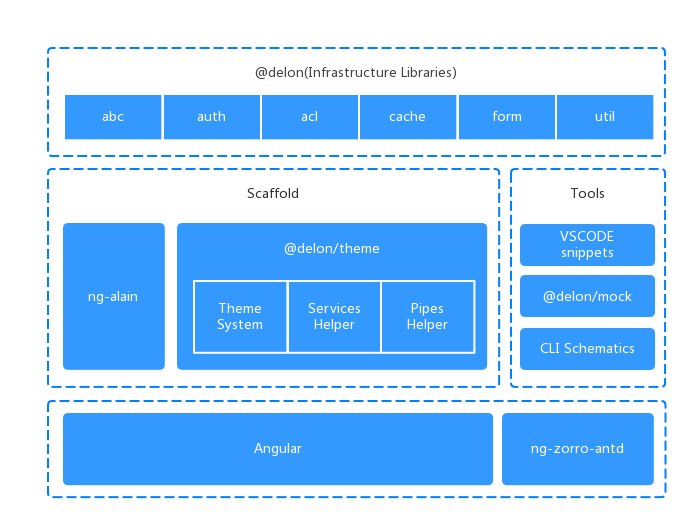
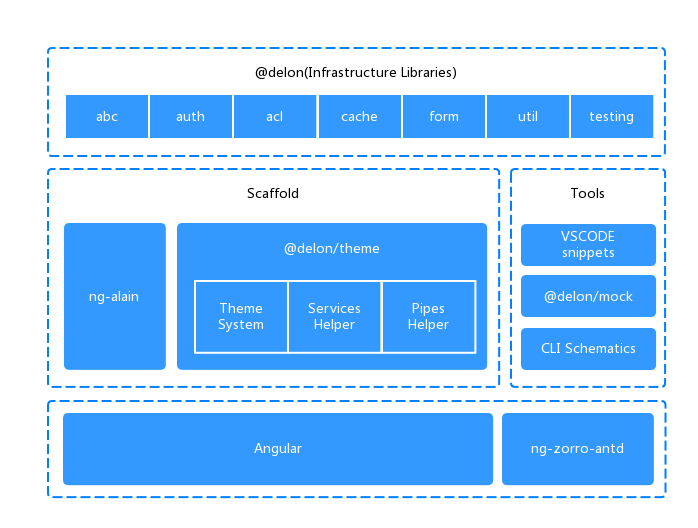
release(7.0.0-rc.1): release 7.0.0-rc.1 (#338)

diff --git a/docs/changelog.zh-CN.md b/docs/changelog.zh-CN.md
@@ -4,6 +4,38 @@ title: 更新日志
 type: Other
 ---
 
+# [7.0.0-rc.1](https://github.com/ng-alain/delon/compare/7.0.0-rc.0...7.0.0-rc.1) (2018-12-24)
+
+### Scaffold
+
+* 新增异常触发示例页
+* 新增波兰语
+* 优化路径配置 ([#825](https://github.com/ng-alain/ng-alain/pull/825))
+
+### Bug Fixes
+
+* **module:auth:** 修复无法识别完整URL匿名键名 ([#328](https://github.com/ng-alain/delon/issues/328)) ([e223ccb](https://github.com/ng-alain/delon/commit/e223ccb))
+* **module:sf:** 修复重置值时应触发一次变更检测 ([#332](https://github.com/ng-alain/delon/issues/332)) ([ffd365b](https://github.com/ng-alain/delon/commit/ffd365b))
+* **module:sf:cascader:** 修复未指定 `labelProperty`、`valueProperty` 问题 ([#325](https://github.com/ng-alain/delon/issues/325)) ([4d4e53f](https://github.com/ng-alain/delon/commit/4d4e53f))
+* **module:st:** 修复调用 `removeRow` 方法应重新计算序号 ([#331](https://github.com/ng-alain/delon/issues/331)) ([6c8c2d1](https://github.com/ng-alain/delon/commit/6c8c2d1)), closes [#330](https://github.com/ng-alain/delon/issues/330)
+* **module:theme:** 修复主菜单在Firefox下总是显示滚动条 ([#336](https://github.com/ng-alain/delon/issues/336)) ([727d0d7](https://github.com/ng-alain/delon/commit/727d0d7))
+* **module:theme:menu:** 标记过期属性 `linkExact` ([#337](https://github.com/ng-alain/delon/issues/337)) ([ebbeed3](https://github.com/ng-alain/delon/commit/ebbeed3))
+
+### Features
+
+* **module:testing:** 增加 `@delon/testing` 测试套件库 ([#329](https://github.com/ng-alain/delon/issues/329)) ([9d533cf](https://github.com/ng-alain/delon/commit/9d533cf))
+* **module:auth:** 增加 `referrer` 属性，用于获取跳转前URL ([#334](https://github.com/ng-alain/delon/issues/334)) ([0510864](https://github.com/ng-alain/delon/commit/0510864))
+* **module:mock:** 增加 `executeOtherInterceptors` 命中后继续执行后续拦截器 ([#321](https://github.com/ng-alain/delon/issues/321)) ([d77e8e9](https://github.com/ng-alain/delon/commit/d77e8e9))
+* **module:sidebar-nav:** 增加 `disabledAcl` 属性，当 ACL 未授权时以禁用状态显示 ([#337](https://github.com/ng-alain/delon/issues/337)) ([ebbeed3](https://github.com/ng-alain/delon/commit/ebbeed3))
+* **module:st:** 增加 `expandRowByClick` 属性，点击行展开与收缩 ([#326](https://github.com/ng-alain/delon/issues/326)) ([a8a6695](https://github.com/ng-alain/delon/commit/a8a6695))
+* **module:st:** 增加 `url` 模式下支持数组响应体 ([#327](https://github.com/ng-alain/delon/issues/327)) ([4e681dc](https://github.com/ng-alain/delon/commit/4e681dc))
+* **module:util:** 增加 `stringTemplateOutlet` 指令 ([#324](https://github.com/ng-alain/delon/issues/324)) ([e8d9ed1](https://github.com/ng-alain/delon/commit/e8d9ed1))
+* **module:theme:** 新增波兰语 ([#308](https://github.com/ng-alain/delon/issues/308)) ([025282c](https://github.com/ng-alain/delon/commit/025282c))
+
+### BREAKING CHANGES
+
+* **module:chart:timeline:** 移除 `tickCount`，同步 antd 3.4 ([#323](https://github.com/ng-alain/delon/issues/323)) ([20920fc](https://github.com/ng-alain/delon/commit/20920fc))
+
 # [7.0.0-rc.0](https://github.com/ng-alain/delon/compare/2.0.1...7.0.0-rc.0) (2018-12-14)
 
 `ng-alain` will track the major version of `@angular/core` from `7.0.0-rc.0` like other angular libraries.

diff --git a/docs/changelog.en-US.md b/docs/changelog.en-US.md
@@ -4,6 +4,38 @@ title: Change Log
 type: Other
 ---
 
+# [7.0.0-rc.1](https://github.com/ng-alain/delon/compare/7.0.0-rc.0...7.0.0-rc.1) (2018-12-24)
+
+### Scaffold
+
+* add exception trigger
+* adding Polish locale
+* optimized path configuration ([#825](https://github.com/ng-alain/ng-alain/pull/825))
+
+### Bug Fixes
+
+* **module:auth:** fix unrecognized full URL anonymous key ([#328](https://github.com/ng-alain/delon/issues/328)) ([e223ccb](https://github.com/ng-alain/delon/commit/e223ccb))
+* **module:sf:** shoule trigger detect change when reset value ([#332](https://github.com/ng-alain/delon/issues/332)) ([ffd365b](https://github.com/ng-alain/delon/commit/ffd365b))
+* **module:sf:cascader:** fix invalid search when labelProperty or valueProperty is empty ([#325](https://github.com/ng-alain/delon/issues/325)) ([4d4e53f](https://github.com/ng-alain/delon/commit/4d4e53f))
+* **module:st:** should recalculate no value when call removeRow method ([#331](https://github.com/ng-alain/delon/issues/331)) ([6c8c2d1](https://github.com/ng-alain/delon/commit/6c8c2d1)), closes [#330](https://github.com/ng-alain/delon/issues/330)
+* **module:theme:** fix keeping show scroll bar in firefox ([#336](https://github.com/ng-alain/delon/issues/336)) ([727d0d7](https://github.com/ng-alain/delon/commit/727d0d7))
+* **module:theme:menu:** tag deprecated `linkExact` ([#337](https://github.com/ng-alain/delon/issues/337)) ([ebbeed3](https://github.com/ng-alain/delon/commit/ebbeed3))
+
+### Features
+
+* **module:testing:** add @delon/testing lib ([#329](https://github.com/ng-alain/delon/issues/329)) ([9d533cf](https://github.com/ng-alain/delon/commit/9d533cf))
+* **module:auth:** add `referrer` property ([#334](https://github.com/ng-alain/delon/issues/334)) ([0510864](https://github.com/ng-alain/delon/commit/0510864))
+* **module:mock:** add `executeOtherInterceptors` config ([#321](https://github.com/ng-alain/delon/issues/321)) ([d77e8e9](https://github.com/ng-alain/delon/commit/d77e8e9))
+* **module:sidebar-nav:** add `disabledAcl` property ([#337](https://github.com/ng-alain/delon/issues/337)) ([ebbeed3](https://github.com/ng-alain/delon/commit/ebbeed3))
+* **module:st:** add `expandRowByClick` property ([#326](https://github.com/ng-alain/delon/issues/326)) ([a8a6695](https://github.com/ng-alain/delon/commit/a8a6695))
+* **module:st:** support response body is an array type ([#327](https://github.com/ng-alain/delon/issues/327)) ([4e681dc](https://github.com/ng-alain/delon/commit/4e681dc))
+* **module:util:** export `stringTemplateOutlet` ([#324](https://github.com/ng-alain/delon/issues/324)) ([e8d9ed1](https://github.com/ng-alain/delon/commit/e8d9ed1))
+* **module:theme:** adding Polish locale ([#308](https://github.com/ng-alain/delon/issues/308)) ([025282c](https://github.com/ng-alain/delon/commit/025282c))
+
+### BREAKING CHANGES
+
+* **module:chart:timeline:** remove tickCount, sync antd 3.4 ([#323](https://github.com/ng-alain/delon/issues/323)) ([20920fc](https://github.com/ng-alain/delon/commit/20920fc))
+
 # [7.0.0-rc.0](https://github.com/ng-alain/delon/compare/2.0.1...7.0.0-rc.0) (2018-12-14)
 
 `ng-alain` will track the major version of `@angular/core` from `7.0.0-rc.0` like other angular libraries.

diff --git a/CHANGELOG.md b/CHANGELOG.md
@@ -1,3 +1,29 @@
+# [7.0.0-rc.1](https://github.com/ng-alain/delon/compare/7.0.0-rc.0...7.0.0-rc.1) (2018-12-24)
+
+
+### Bug Fixes
+
+* **module:auth:** fix unrecognized full URL anonymous key ([#328](https://github.com/ng-alain/delon/issues/328)) ([e223ccb](https://github.com/ng-alain/delon/commit/e223ccb))
+* **module:chart:timeline:** remove tickCount ([#323](https://github.com/ng-alain/delon/issues/323)) ([20920fc](https://github.com/ng-alain/delon/commit/20920fc))
+* **module:sf:** shoule trigger detect change when reset value ([#332](https://github.com/ng-alain/delon/issues/332)) ([ffd365b](https://github.com/ng-alain/delon/commit/ffd365b))
+* **module:sf:cascader:** fix invalid search when labelProperty or valueProperty is empty ([#325](https://github.com/ng-alain/delon/issues/325)) ([4d4e53f](https://github.com/ng-alain/delon/commit/4d4e53f))
+* **module:st:** should recalculate no value when call removeRow method ([#331](https://github.com/ng-alain/delon/issues/331)) ([6c8c2d1](https://github.com/ng-alain/delon/commit/6c8c2d1)), closes [#330](https://github.com/ng-alain/delon/issues/330)
+* **module:theme:** fix keeping show scroll bar in firefox ([#336](https://github.com/ng-alain/delon/issues/336)) ([727d0d7](https://github.com/ng-alain/delon/commit/727d0d7))
+
+
+### Features
+
+* **module:auth:** add referrer property ([#334](https://github.com/ng-alain/delon/issues/334)) ([0510864](https://github.com/ng-alain/delon/commit/0510864))
+* **module:mock:** add executeOtherInterceptors config ([#321](https://github.com/ng-alain/delon/issues/321)) ([d77e8e9](https://github.com/ng-alain/delon/commit/d77e8e9))
+* **module:sidebar-nav:** add disabledAcl property ([#337](https://github.com/ng-alain/delon/issues/337)) ([ebbeed3](https://github.com/ng-alain/delon/commit/ebbeed3))
+* **module:st:** add expandRowByClick property ([#326](https://github.com/ng-alain/delon/issues/326)) ([a8a6695](https://github.com/ng-alain/delon/commit/a8a6695))
+* **module:st:** support response body is an array type ([#327](https://github.com/ng-alain/delon/issues/327)) ([4e681dc](https://github.com/ng-alain/delon/commit/4e681dc))
+* **module:testing:** add [@delon](https://github.com/delon)/testing lib ([#329](https://github.com/ng-alain/delon/issues/329)) ([9d533cf](https://github.com/ng-alain/delon/commit/9d533cf))
+* **module:theme:** adding Polish locale ([#308](https://github.com/ng-alain/delon/issues/308)) ([025282c](https://github.com/ng-alain/delon/commit/025282c))
+* **module:util:** export stringTemplateOutlet ([#324](https://github.com/ng-alain/delon/issues/324)) ([e8d9ed1](https://github.com/ng-alain/delon/commit/e8d9ed1))
+
+
+
 # [7.0.0-rc.0](https://github.com/ng-alain/delon/compare/2.0.1...7.0.0-rc.0) (2018-12-14)
 
 

diff --git a/packages/schematics/README.md b/packages/schematics/README.md
@@ -1,9 +1,12 @@
-[![Build Status](https://travis-ci.org/ng-alain/ng-alain.svg?branch=master)](https://travis-ci.org/ng-alain/ng-alain)
-[![Dependency Status](https://david-dm.org/ng-alain/ng-alain/status.svg)](https://david-dm.org/ng-alain/ng-alain)
-[![NPM version](https://img.shields.io/npm/v/ng-alain.svg)](https://www.npmjs.com/package/ng-alain)
-[![NPM version](https://img.shields.io/npm/v/ng-alain/next.svg)](https://www.npmjs.com/package/ng-alain)
-[![Taobao version](https://npm.taobao.org/badge/v/ng-alain.svg?style=flat-square)](https://npm.taobao.org/package/ng-alain)
-[![prettier](https://img.shields.io/badge/code_style-prettier-ff69b4.svg?style=flat-square)](https://prettier.io/)
+  [![Build Status](https://img.shields.io/travis/ng-alain/ng-alain/master.svg?style=flat-square)](https://travis-ci.org/ng-alain/ng-alain)
+  [![Dependency Status](https://david-dm.org/ng-alain/ng-alain/status.svg?style=flat-square)](https://david-dm.org/ng-alain/ng-alain)
+  [![GitHub Release Date](https://img.shields.io/github/release-date/ng-alain/ng-alain.svg?style=flat-square)](https://github.com/ng-alain/ng-alain/releases)
+  [![NPM version](https://img.shields.io/npm/v/ng-alain.svg?style=flat-square)](https://www.npmjs.com/package/ng-alain)
+  [![prettier](https://img.shields.io/badge/code_style-prettier-ff69b4.svg?style=flat-square)](https://prettier.io/)
+  [![GitHub license](https://img.shields.io/github/license/mashape/apistatus.svg?style=flat-square)](https://github.com/ng-alain/ng-alain/blob/master/LICENSE)
+  [![Gitter](https://img.shields.io/gitter/room/ng-alain/ng-alain.svg?style=flat-square)](https://gitter.im/ng-alain/ng-alain)
+  [![ng-zorro-vscode](https://img.shields.io/badge/ng--zorro-VSCODE-brightgreen.svg?style=flat-square)](https://marketplace.visualstudio.com/items?itemName=cipchk.ng-zorro-vscode)
+  [![ng-alain-vscode](https://img.shields.io/badge/ng--alain-VSCODE-brightgreen.svg?style=flat-square)](https://marketplace.visualstudio.com/items?itemName=cipchk.ng-alain-vscode)
 
 Angular CLI Schematics of ng-alain.
 

diff --git a/packages/auth/README.md b/packages/auth/README.md
@@ -1,4 +1,4 @@
-# @delon/auth module [![Build Status](https://travis-ci.org/ng-alain/delon.svg?branch=master)](https://travis-ci.org/ng-alain/delon) [![NPM version](https://img.shields.io/npm/v/@delon/auth.svg)](https://www.npmjs.com/package/@delon/auth) [![NPM version](https://img.shields.io/npm/v/@delon/auth/next.svg)](https://www.npmjs.com/package/@delon/auth) [![Taobao version](https://npm.taobao.org/badge/v/@delon/auth.svg?style=flat-square)](https://npm.taobao.org/package/@delon/auth)
+# @delon/auth module [![Build Status](https://img.shields.io/travis/ng-alain/delon/master.svg?style=flat-square)](https://travis-ci.org/ng-alain/delon) [![NPM version](https://img.shields.io/npm/v/@delon/auth.svg?style=flat-square)](https://www.npmjs.com/package/@delon/auth)
 
 Simple user authentication, support Json Web Token & Simple Token.
 

diff --git a/packages/testing/README.md b/packages/testing/README.md
@@ -1,4 +1,4 @@
-# @delon/testing module [![Build Status](https://travis-ci.org/ng-alain/delon.svg?branch=master)](https://travis-ci.org/ng-alain/delon) [![NPM version](https://img.shields.io/npm/v/@delon/testing.svg)](https://www.npmjs.com/package/@delon/testing) [![NPM version](https://img.shields.io/npm/v/@delon/testing/next.svg)](https://www.npmjs.com/package/@delon/testing) [![Taobao version](https://npm.taobao.org/badge/v/@delon/testing.svg?style=flat-square)](https://npm.taobao.org/package/@delon/testing)
+# @delon/testing module [![Build Status](https://img.shields.io/travis/ng-alain/delon/master.svg?style=flat-square)](https://travis-ci.org/ng-alain/delon) [![NPM version](https://img.shields.io/npm/v/@delon/testing.svg?style=flat-square)](https://www.npmjs.com/package/@delon/testing)
 
 Test suite for ng-alain.
 

diff --git a/packages/cache/README.md b/packages/cache/README.md
@@ -1,4 +1,4 @@
-# @delon/cache module [![Build Status](https://travis-ci.org/ng-alain/delon.svg?branch=master)](https://travis-ci.org/ng-alain/delon) [![NPM version](https://img.shields.io/npm/v/@delon/cache.svg)](https://www.npmjs.com/package/@delon/cache) [![NPM version](https://img.shields.io/npm/v/@delon/cache/next.svg)](https://www.npmjs.com/package/@delon/cache) [![Taobao version](https://npm.taobao.org/badge/v/@delon/cache.svg?style=flat-square)](https://npm.taobao.org/package/@delon/cache)
+# @delon/cache module [![Build Status](https://img.shields.io/travis/ng-alain/delon/master.svg?style=flat-square)](https://travis-ci.org/ng-alain/delon) [![NPM version](https://img.shields.io/npm/v/@delon/cache.svg?style=flat-square)](https://www.npmjs.com/package/@delon/cache)
 
 Cache the dictionary, city data etc.
 

diff --git a/packages/chart/README.md b/packages/chart/README.md
@@ -1,4 +1,4 @@
-# @delon/chart module [![Build Status](https://travis-ci.org/ng-alain/delon.svg?branch=master)](https://travis-ci.org/ng-alain/delon) [![NPM version](https://img.shields.io/npm/v/@delon/chart.svg)](https://www.npmjs.com/package/@delon/chart) [![NPM version](https://img.shields.io/npm/v/@delon/chart/next.svg)](https://www.npmjs.com/package/@delon/chart) [![Taobao version](https://npm.taobao.org/badge/v/@delon/chart.svg?style=flat-square)](https://npm.taobao.org/package/@delon/chart)
+# @delon/chart module [![Build Status](https://img.shields.io/travis/ng-alain/delon/master.svg?style=flat-square)](https://travis-ci.org/ng-alain/delon) [![NPM version](https://img.shields.io/npm/v/@delon/chart.svg?style=flat-square)](https://www.npmjs.com/package/@delon/chart)
 
 Cache the dictionary, city data etc.
 

diff --git a/packages/mock/README.md b/packages/mock/README.md
@@ -1,4 +1,4 @@
-# @delon/mock module [![Build Status](https://travis-ci.org/ng-alain/delon.svg?branch=master)](https://travis-ci.org/ng-alain/delon) [![NPM version](https://img.shields.io/npm/v/@delon/mock.svg)](https://www.npmjs.com/package/@delon/mock) [![NPM version](https://img.shields.io/npm/v/@delon/mock/next.svg)](https://www.npmjs.com/package/@delon/mock) [![Taobao version](https://npm.taobao.org/badge/v/@delon/mock.svg?style=flat-square)](https://npm.taobao.org/package/@delon/mock)
+# @delon/mock module [![Build Status](https://img.shields.io/travis/ng-alain/delon/master.svg?style=flat-square)](https://travis-ci.org/ng-alain/delon) [![NPM version](https://img.shields.io/npm/v/@delon/mock.svg?style=flat-square)](https://www.npmjs.com/package/@delon/mock)
 
 Generate random data, intercept http requests.
 

diff --git a/packages/form/README.md b/packages/form/README.md
@@ -1,4 +1,4 @@
-# @delon/form module [![Build Status](https://travis-ci.org/ng-alain/delon.svg?branch=master)](https://travis-ci.org/ng-alain/delon) [![NPM version](https://img.shields.io/npm/v/@delon/form.svg)](https://www.npmjs.com/package/@delon/form) [![NPM version](https://img.shields.io/npm/v/@delon/form/next.svg)](https://www.npmjs.com/package/@delon/form) [![Taobao version](https://npm.taobao.org/badge/v/@delon/form.svg?style=flat-square)](https://npm.taobao.org/package/@delon/form)
+# @delon/form module [![Build Status](https://img.shields.io/travis/ng-alain/delon/master.svg?style=flat-square)](https://travis-ci.org/ng-alain/delon) [![NPM version](https://img.shields.io/npm/v/@delon/form.svg?style=flat-square)](https://www.npmjs.com/package/@delon/form)
 
 Angular form generation based on JSON-Schema.
 

diff --git a/packages/theme/README.md b/packages/theme/README.md
@@ -1,4 +1,4 @@
-# @delon/theme module [![Build Status](https://travis-ci.org/ng-alain/delon.svg?branch=master)](https://travis-ci.org/ng-alain/delon) [![NPM version](https://img.shields.io/npm/v/@delon/theme.svg)](https://www.npmjs.com/package/@delon/theme) [![NPM version](https://img.shields.io/npm/v/@delon/theme/next.svg)](https://www.npmjs.com/package/@delon/theme) [![Taobao version](https://npm.taobao.org/badge/v/@delon/theme.svg?style=flat-square)](https://npm.taobao.org/package/@delon/theme)
+# @delon/theme module [![Build Status](https://img.shields.io/travis/ng-alain/delon/master.svg?style=flat-square)](https://travis-ci.org/ng-alain/delon) [![NPM version](https://img.shields.io/npm/v/@delon/theme.svg?style=flat-square)](https://www.npmjs.com/package/@delon/theme)
 
 ng-alain theme system library.
 

diff --git a/packages/util/README.md b/packages/util/README.md
@@ -1,4 +1,4 @@
-# @delon/util module [![Build Status](https://travis-ci.org/ng-alain/delon.svg?branch=master)](https://travis-ci.org/ng-alain/delon) [![NPM version](https://img.shields.io/npm/v/@delon/util.svg)](https://www.npmjs.com/package/@delon/util) [![NPM version](https://img.shields.io/npm/v/@delon/util/next.svg)](https://www.npmjs.com/package/@delon/util) [![Taobao version](https://npm.taobao.org/badge/v/@delon/util.svg?style=flat-square)](https://npm.taobao.org/package/@delon/util)
+# @delon/util module [![Build Status](https://img.shields.io/travis/ng-alain/delon/master.svg?style=flat-square)](https://travis-ci.org/ng-alain/delon) [![NPM version](https://img.shields.io/npm/v/@delon/util.svg?style=flat-square)](https://www.npmjs.com/package/@delon/util)
 
 Universal toolset of ng-alain.
 
